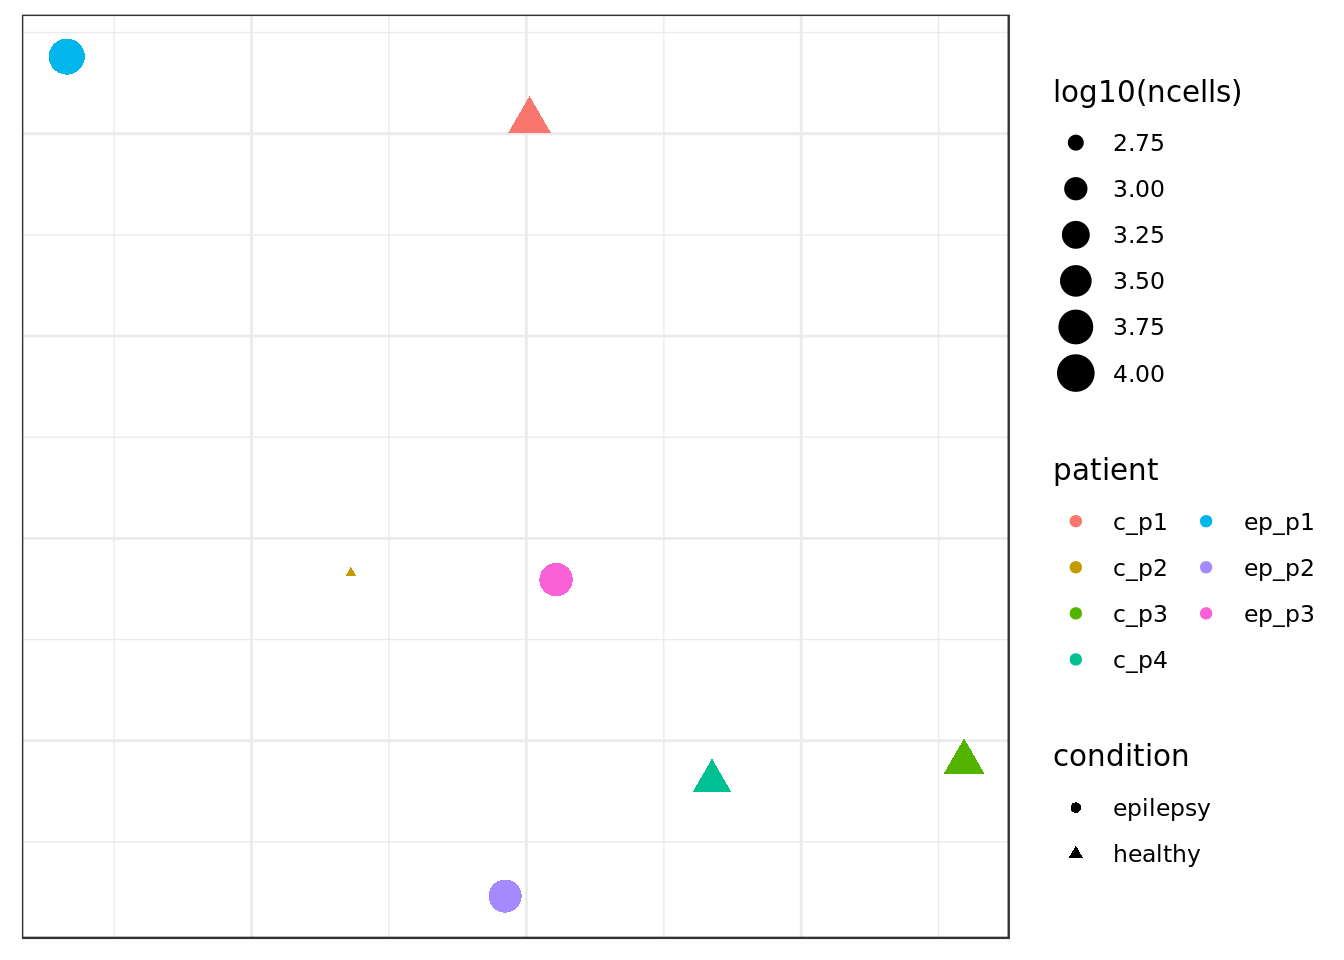
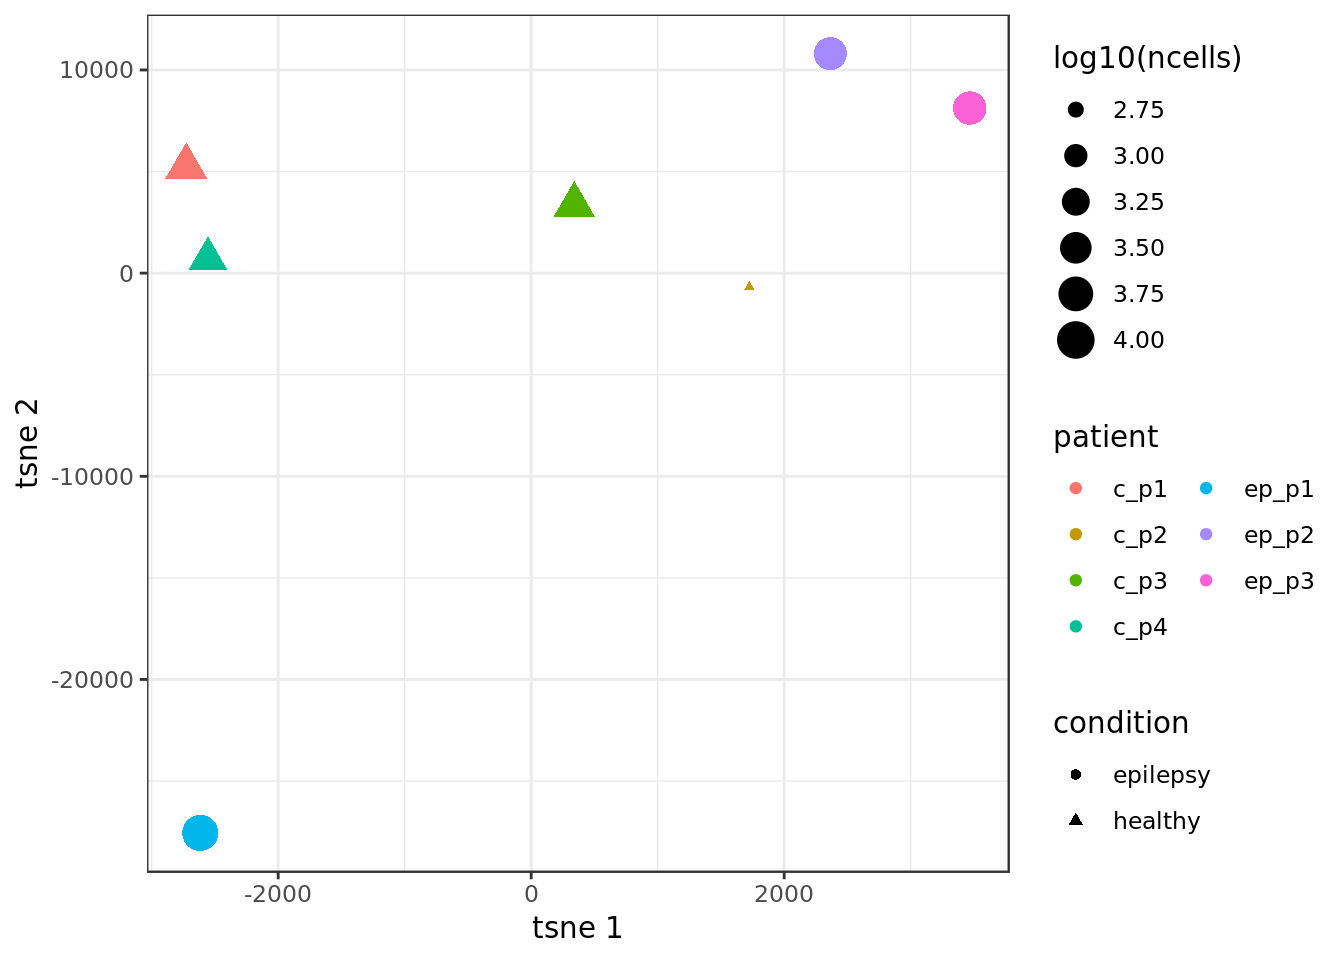
Build site.

diff --git a/docs/transmute_code_eps_2.html b/docs/transmute_code_eps_2.html
@@ -447,7 +447,7 @@ div.section {
 <div class="tab-content">
 <div id="summary" class="tab-pane fade in active">
 <p>
-<strong>Last updated:</strong> 2019-04-30
+<strong>Last updated:</strong> 2019-05-02
 </p>
 <p>
 <strong>Checks:</strong> <span class="glyphicon glyphicon-ok text-success" aria-hidden="true"></span> 6 <span class="glyphicon glyphicon-exclamation-sign text-danger" aria-hidden="true"></span> 0
@@ -526,10 +526,10 @@ This reproducible <a href="http://rmarkdown.rstudio.com">R Markdown</a> analysis
 <div class="panel panel-default">
 <div class="panel-heading">
 <p class="panel-title">
-<a data-toggle="collapse" data-parent="#workflowr-checks" href="#strongRepositoryversionstrongahrefhttpsgithubcomgithubz0rSecretUtilstree53665fd24cc4540236c383f388203dc43edde080targetblank53665fda"> <span class="glyphicon glyphicon-ok text-success" aria-hidden="true"></span> <strong>Repository version:</strong> <a href="https://github.com/githubz0r/SecretUtils/tree/53665fd24cc4540236c383f388203dc43edde080" target="_blank">53665fd</a> </a>
+<a data-toggle="collapse" data-parent="#workflowr-checks" href="#strongRepositoryversionstrongahrefhttpsgithubcomgithubz0rSecretUtilstreea96c1ca2d7cd9e38b674efb3f9df7048f5226bb7targetblanka96c1caa"> <span class="glyphicon glyphicon-ok text-success" aria-hidden="true"></span> <strong>Repository version:</strong> <a href="https://github.com/githubz0r/SecretUtils/tree/a96c1ca2d7cd9e38b674efb3f9df7048f5226bb7" target="_blank">a96c1ca</a> </a>
 </p>
 </div>
[2 lines of base64/hex data omitted]
 <div class="panel-body">
 <p>
 Great! You are using Git for version control. Tracking code development and connecting the code version to the results is critical for reproducibility. The version displayed above was the version of the Git repository at the time these results were generated. <br><br> Note that you need to be careful to ensure that all relevant files for the analysis have been committed to Git prior to generating the results (you can use <code>wflow_publish</code> or <code>wflow_git_commit</code>). workflowr only checks the R Markdown file, but you know if there are other scripts or data files that it depends on. Below is the status of the Git repository when the results were generated:
@@ -550,6 +550,7 @@ Untracked files:
     Untracked:  analysis/subtype_distances.Rmd
     Untracked:  analysis/subtype_distances2.Rmd
     Untracked:  analysis/subtype_distances4.Rmd
+    Untracked:  analysis/subtype_distances_redux.Rmd
     Untracked:  analysis/test_output.Rmd
     Untracked:  analysis/transmute_peters_code.Rmd
     Untracked:  man/
@@ -595,6 +596,40 @@ Message
 </tr>
 </thead>
 <tbody>
+<tr>
+<td>
+Rmd
+</td>
+<td>
+<a href="https://github.com/githubz0r/SecretUtils/blob/a96c1ca2d7cd9e38b674efb3f9df7048f5226bb7/analysis/transmute_code_eps_2.Rmd" target="_blank">a96c1ca</a>
+</td>
+<td>
+githubz0r
+</td>
+<td>
+2019-05-02
+</td>
+<td>
+stupid html file
+</td>
+</tr>
+<tr>
+<td>
+html
+</td>
+<td>
+<a href="https://rawcdn.githack.com/githubz0r/SecretUtils/9e5b3d6b9b11d1a748e0bc43a38df0fafe2ca17c/docs/transmute_code_eps_2.html" target="_blank">9e5b3d6</a>
+</td>
+<td>
+githubz0r
+</td>
+<td>
+2019-04-30
+</td>
+<td>
+Build site.
+</td>
+</tr>
 <tr>
 <td>
 Rmd
@@ -781,7 +816,7 @@ con &lt;- Conos$new(con)
 annot &lt;- readRDS(file.path(&#39;/home/demharters/R/projects/UPF9_14_17_19_22_23_24_32_33/metadata_10x_final.rds&#39;))
 fraction_palette_eps &lt;- c(epilepsy=&#39;hotpink&#39;, healthy=&#39;seagreen&#39;) </code></pre>
 <p>‘Fractional’ changes.</p>
-<pre class="r"><code>FractionalPlot(annot, 1, 2 ,3, fraction.palette=fraction_palette_eps)</code></pre>
+<pre class="r"><code>FractionalPlot(annot$sample, annot$subtype, annot$condition, fraction.palette = fraction_palette_eps)</code></pre>
 <p><img src="figure/transmute_code_eps_2.Rmd/unnamed-chunk-3-1.png" width="672" style="display: block; margin: auto;" /></p>
 <p>
 <button type="button" class="btn btn-default btn-xs btn-workflowr btn-workflowr-fig" data-toggle="collapse" data-target="#fig-unnamed-chunk-3-1">
@@ -844,10 +879,16 @@ githubz0r
 </div>
 <p>Distance matrix tsne plot</p>
 <pre class="r"><code>annot2 &lt;- annot %&gt;% mutate(cellid=rownames(annot))
+source(&#39;/home/larsc/SecretUtils/R/peter_code_utils.R&#39;)
+sub_dist_mat &lt;- Makesubdistmat(con, annot2$sample, annot2$subtype, annot2$cellid)
 
-ctdm&lt;- Makectdm(con, annot2, 1, 2, 4)
-
-PlotDistanceMatRed(ctdm, annot2, 1, 2, 1, 4, 3, perplexity=2, max_iter=1e3)</code></pre>
+## some weird shit
+#testannot &lt;- bind_cols(list(annot2$sample, annot2$subtype, annot2$cellid))
+#tf_test &lt;- setNames(testannot[, 2], testannot[, 3]) %&gt;% as.factor # does not work
+#tf_test &lt;- setNames(testannot[[2]], testannot[[3]]) %&gt;% as.factor
+## end weird shit
+PlotDistanceMatRed(sub_dist_mat, annot2$sample, annot2$subtype, annot2$sample, 
+                   annot2$cellid, annot2$condition, perplexity=2, max_iter=1e4) # add labels</code></pre>
 <p><img src="figure/transmute_code_eps_2.Rmd/unnamed-chunk-4-1.png" width="672" style="display: block; margin: auto;" /></p>
 <p>
 <button type="button" class="btn btn-default btn-xs btn-workflowr btn-workflowr-fig" data-toggle="collapse" data-target="#fig-unnamed-chunk-4-1">
@@ -871,6 +912,17 @@ Date
 </tr>
 </thead>
 <tbody>
+<tr>
+<td>
+<a href="https://github.com/githubz0r/SecretUtils/blob/9e5b3d6b9b11d1a748e0bc43a38df0fafe2ca17c/docs/figure/transmute_code_eps_2.Rmd/unnamed-chunk-4-1.png" target="_blank">9e5b3d6</a>
+</td>
+<td>
+githubz0r
+</td>
+<td>
+2019-04-30
+</td>
+</tr>
 <tr>
 <td>
 <a href="https://github.com/githubz0r/SecretUtils/blob/2d49ad487654b82e647f7f379d983b5da58e829f/docs/figure/transmute_code_eps_2.Rmd/unnamed-chunk-4-1.png" target="_blank">2d49ad4</a>
@@ -897,9 +949,11 @@ githubz0r
 </table>
 </div>
 </div>
-<p>Distribution distances per cell type (using ctdm so must be unweighted)</p>
-<pre class="r"><code>min_cells=0
-PlotCellTypeDists(ctdm, min_cells)</code></pre>
+<p>Condition distance distribution</p>
+<pre class="r"><code>ConditionDistanceDensity(sub_dist_mat, annot$sample, annot$subtype, annot$sample, annot2$cellid, annot$condition,
+                         notch=TRUE, fraction.palette = fraction_palette_eps)</code></pre>
+<pre><code>notch went outside hinges. Try setting notch=FALSE.
+notch went outside hinges. Try setting notch=FALSE.</code></pre>
 <p><img src="figure/transmute_code_eps_2.Rmd/unnamed-chunk-5-1.png" width="672" style="display: block; margin: auto;" /></p>
 <p>
 <button type="button" class="btn btn-default btn-xs btn-workflowr btn-workflowr-fig" data-toggle="collapse" data-target="#fig-unnamed-chunk-5-1">
@@ -938,6 +992,10 @@ githubz0r
 </table>
 </div>
 </div>
+<p>Distribution distances per cell type (using ctdm so must be unweighted)</p>
+<pre class="r"><code>min_cells=0
+PlotCellTypeDists(sub_dist_mat, min_cells)</code></pre>
+<p><img src="figure/transmute_code_eps_2.Rmd/unnamed-chunk-6-1.png" width="672" style="display: block; margin: auto;" /></p>
 <br>
 <p>
 <button type="button" class="btn btn-default btn-workflowr btn-workflowr-sessioninfo" data-toggle="collapse" data-target="#workflowr-sessioninfo" style="display: block;">

diff --git a/docs/license.html b/docs/license.html
@@ -344,7 +344,7 @@ div.section {
 <div class="tab-content">
 <div id="summary" class="tab-pane fade in active">
 <p>
-<strong>Last updated:</strong> 2019-04-30
+<strong>Last updated:</strong> 2019-05-02
 </p>
 <p>
 <strong>Checks:</strong> <span class="glyphicon glyphicon-ok text-success" aria-hidden="true"></span> 2 <span class="glyphicon glyphicon-exclamation-sign text-danger" aria-hidden="true"></span> 0
@@ -375,10 +375,10 @@ This reproducible <a href="http://rmarkdown.rstudio.com">R Markdown</a> analysis
 <div class="panel panel-default">
 <div class="panel-heading">
 <p class="panel-title">
-<a data-toggle="collapse" data-parent="#workflowr-checks" href="#strongRepositoryversionstrongahrefhttpsgithubcomgithubz0rSecretUtilstree53665fd24cc4540236c383f388203dc43edde080targetblank53665fda"> <span class="glyphicon glyphicon-ok text-success" aria-hidden="true"></span> <strong>Repository version:</strong> <a href="https://github.com/githubz0r/SecretUtils/tree/53665fd24cc4540236c383f388203dc43edde080" target="_blank">53665fd</a> </a>
+<a data-toggle="collapse" data-parent="#workflowr-checks" href="#strongRepositoryversionstrongahrefhttpsgithubcomgithubz0rSecretUtilstreea96c1ca2d7cd9e38b674efb3f9df7048f5226bb7targetblanka96c1caa"> <span class="glyphicon glyphicon-ok text-success" aria-hidden="true"></span> <strong>Repository version:</strong> <a href="https://github.com/githubz0r/SecretUtils/tree/a96c1ca2d7cd9e38b674efb3f9df7048f5226bb7" target="_blank">a96c1ca</a> </a>
 </p>
 </div>
[2 lines of base64/hex data omitted]
 <div class="panel-body">
 <p>
 Great! You are using Git for version control. Tracking code development and connecting the code version to the results is critical for reproducibility. The version displayed above was the version of the Git repository at the time these results were generated. <br><br> Note that you need to be careful to ensure that all relevant files for the analysis have been committed to Git prior to generating the results (you can use <code>wflow_publish</code> or <code>wflow_git_commit</code>). workflowr only checks the R Markdown file, but you know if there are other scripts or data files that it depends on. Below is the status of the Git repository when the results were generated:
@@ -399,6 +399,7 @@ Untracked files:
     Untracked:  analysis/subtype_distances.Rmd
     Untracked:  analysis/subtype_distances2.Rmd
     Untracked:  analysis/subtype_distances4.Rmd
+    Untracked:  analysis/subtype_distances_redux.Rmd
     Untracked:  analysis/test_output.Rmd
     Untracked:  analysis/transmute_peters_code.Rmd
     Untracked:  man/
@@ -444,6 +445,23 @@ Message
 </tr>
 </thead>
 <tbody>
+<tr>
+<td>
+html
+</td>
+<td>
+<a href="https://rawcdn.githack.com/githubz0r/SecretUtils/9e5b3d6b9b11d1a748e0bc43a38df0fafe2ca17c/docs/license.html" target="_blank">9e5b3d6</a>
+</td>
+<td>
+githubz0r
+</td>
+<td>
+2019-04-30
+</td>
+<td>
+Build site.
+</td>
+</tr>
 <tr>
 <td>
 html

diff --git a/docs/about.html b/docs/about.html
@@ -344,7 +344,7 @@ div.section {
 <div class="tab-content">
 <div id="summary" class="tab-pane fade in active">
 <p>
-<strong>Last updated:</strong> 2019-04-30
+<strong>Last updated:</strong> 2019-05-02
 </p>
 <p>
 <strong>Checks:</strong> <span class="glyphicon glyphicon-ok text-success" aria-hidden="true"></span> 2 <span class="glyphicon glyphicon-exclamation-sign text-danger" aria-hidden="true"></span> 0
@@ -375,10 +375,10 @@ This reproducible <a href="http://rmarkdown.rstudio.com">R Markdown</a> analysis
 <div class="panel panel-default">
 <div class="panel-heading">
 <p class="panel-title">
-<a data-toggle="collapse" data-parent="#workflowr-checks" href="#strongRepositoryversionstrongahrefhttpsgithubcomgithubz0rSecretUtilstree53665fd24cc4540236c383f388203dc43edde080targetblank53665fda"> <span class="glyphicon glyphicon-ok text-success" aria-hidden="true"></span> <strong>Repository version:</strong> <a href="https://github.com/githubz0r/SecretUtils/tree/53665fd24cc4540236c383f388203dc43edde080" target="_blank">53665fd</a> </a>
+<a data-toggle="collapse" data-parent="#workflowr-checks" href="#strongRepositoryversionstrongahrefhttpsgithubcomgithubz0rSecretUtilstreea96c1ca2d7cd9e38b674efb3f9df7048f5226bb7targetblanka96c1caa"> <span class="glyphicon glyphicon-ok text-success" aria-hidden="true"></span> <strong>Repository version:</strong> <a href="https://github.com/githubz0r/SecretUtils/tree/a96c1ca2d7cd9e38b674efb3f9df7048f5226bb7" target="_blank">a96c1ca</a> </a>
 </p>
 </div>
[2 lines of base64/hex data omitted]
 <div class="panel-body">
 <p>
 Great! You are using Git for version control. Tracking code development and connecting the code version to the results is critical for reproducibility. The version displayed above was the version of the Git repository at the time these results were generated. <br><br> Note that you need to be careful to ensure that all relevant files for the analysis have been committed to Git prior to generating the results (you can use <code>wflow_publish</code> or <code>wflow_git_commit</code>). workflowr only checks the R Markdown file, but you know if there are other scripts or data files that it depends on. Below is the status of the Git repository when the results were generated:
@@ -399,6 +399,7 @@ Untracked files:
     Untracked:  analysis/subtype_distances.Rmd
     Untracked:  analysis/subtype_distances2.Rmd
     Untracked:  analysis/subtype_distances4.Rmd
+    Untracked:  analysis/subtype_distances_redux.Rmd
     Untracked:  analysis/test_output.Rmd
     Untracked:  analysis/transmute_peters_code.Rmd
     Untracked:  man/
@@ -444,6 +445,23 @@ Message
 </tr>
 </thead>
 <tbody>
+<tr>
+<td>
+html
+</td>
+<td>
+<a href="https://rawcdn.githack.com/githubz0r/SecretUtils/9e5b3d6b9b11d1a748e0bc43a38df0fafe2ca17c/docs/about.html" target="_blank">9e5b3d6</a>
+</td>
+<td>
+githubz0r
+</td>
+<td>
+2019-04-30
+</td>
+<td>
+Build site.
+</td>
+</tr>
 <tr>
 <td>
 html

diff --git a/docs/index.html b/docs/index.html
@@ -344,7 +344,7 @@ div.section {
 <div class="tab-content">
 <div id="summary" class="tab-pane fade in active">
 <p>
-<strong>Last updated:</strong> 2019-04-30
+<strong>Last updated:</strong> 2019-05-02
 </p>
 <p>
 <strong>Checks:</strong> <span class="glyphicon glyphicon-ok text-success" aria-hidden="true"></span> 2 <span class="glyphicon glyphicon-exclamation-sign text-danger" aria-hidden="true"></span> 0
@@ -375,10 +375,10 @@ This reproducible <a href="http://rmarkdown.rstudio.com">R Markdown</a> analysis
 <div class="panel panel-default">
 <div class="panel-heading">
 <p class="panel-title">
-<a data-toggle="collapse" data-parent="#workflowr-checks" href="#strongRepositoryversionstrongahrefhttpsgithubcomgithubz0rSecretUtilstree53665fd24cc4540236c383f388203dc43edde080targetblank53665fda"> <span class="glyphicon glyphicon-ok text-success" aria-hidden="true"></span> <strong>Repository version:</strong> <a href="https://github.com/githubz0r/SecretUtils/tree/53665fd24cc4540236c383f388203dc43edde080" target="_blank">53665fd</a> </a>
+<a data-toggle="collapse" data-parent="#workflowr-checks" href="#strongRepositoryversionstrongahrefhttpsgithubcomgithubz0rSecretUtilstreea96c1ca2d7cd9e38b674efb3f9df7048f5226bb7targetblanka96c1caa"> <span class="glyphicon glyphicon-ok text-success" aria-hidden="true"></span> <strong>Repository version:</strong> <a href="https://github.com/githubz0r/SecretUtils/tree/a96c1ca2d7cd9e38b674efb3f9df7048f5226bb7" target="_blank">a96c1ca</a> </a>
 </p>
 </div>
[2 lines of base64/hex data omitted]
 <div class="panel-body">
 <p>
 Great! You are using Git for version control. Tracking code development and connecting the code version to the results is critical for reproducibility. The version displayed above was the version of the Git repository at the time these results were generated. <br><br> Note that you need to be careful to ensure that all relevant files for the analysis have been committed to Git prior to generating the results (you can use <code>wflow_publish</code> or <code>wflow_git_commit</code>). workflowr only checks the R Markdown file, but you know if there are other scripts or data files that it depends on. Below is the status of the Git repository when the results were generated:
@@ -399,6 +399,7 @@ Untracked files:
     Untracked:  analysis/subtype_distances.Rmd
     Untracked:  analysis/subtype_distances2.Rmd
     Untracked:  analysis/subtype_distances4.Rmd
+    Untracked:  analysis/subtype_distances_redux.Rmd
     Untracked:  analysis/test_output.Rmd
     Untracked:  analysis/transmute_peters_code.Rmd
     Untracked:  man/
@@ -444,6 +445,23 @@ Message
 </tr>
 </thead>
 <tbody>
+<tr>
+<td>
+html
+</td>
+<td>
+<a href="https://rawcdn.githack.com/githubz0r/SecretUtils/9e5b3d6b9b11d1a748e0bc43a38df0fafe2ca17c/docs/index.html" target="_blank">9e5b3d6</a>
+</td>
+<td>
+githubz0r
+</td>
+<td>
+2019-04-30
+</td>
+<td>
+Build site.
+</td>
+</tr>
 <tr>
 <td>
 html
